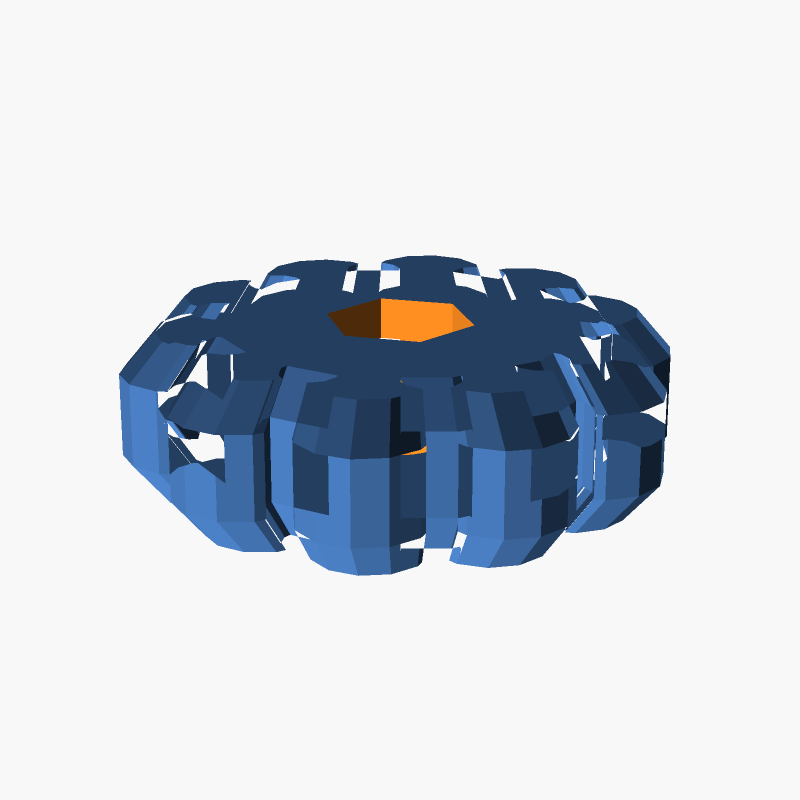
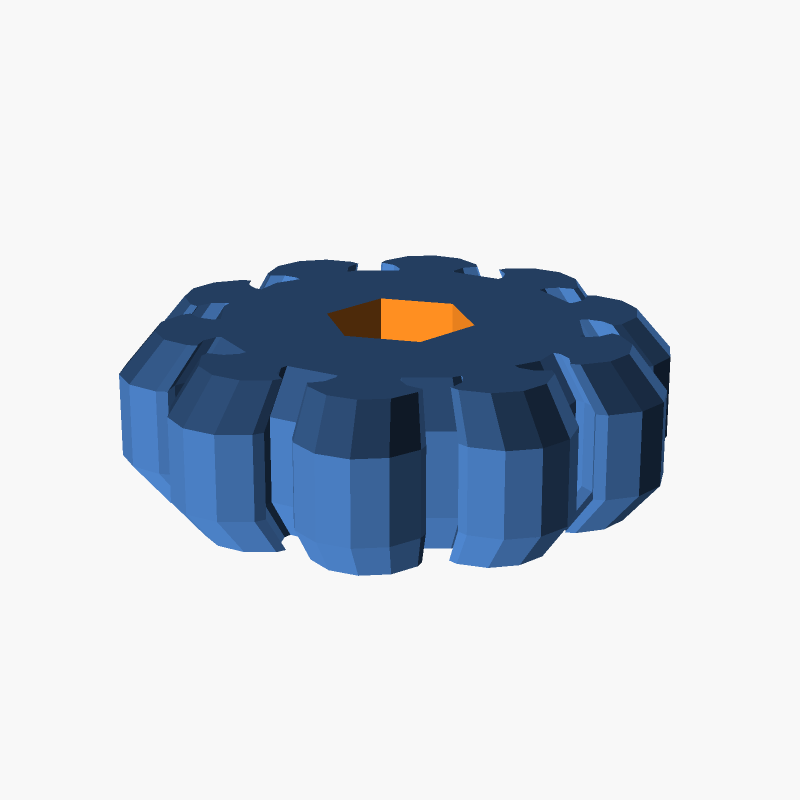
Increase convexity for proper preview

diff --git a/README.md b/README.md
@@ -9,6 +9,6 @@ Part list to build one:
 - 2 x M4 hex nut
 - 6 x M4 washer (approximatly 10mm outer diameter)
 
-|blade-mount.scad|nut-handle.scad|
-|---|---|
-|![blade-mount.scad](images/blade-mount.scad.png)|![nut-handle.scad](images/nut-handle.scad.png)|
+|blade-mount.scad|nut-handle.scad|preview.scad|
+|---|---|---|
+|![blade-mount.scad](images/blade-mount.scad.png)|![nut-handle.scad](images/nut-handle.scad.png)|![preview.scad](images/preview.scad.png)|
